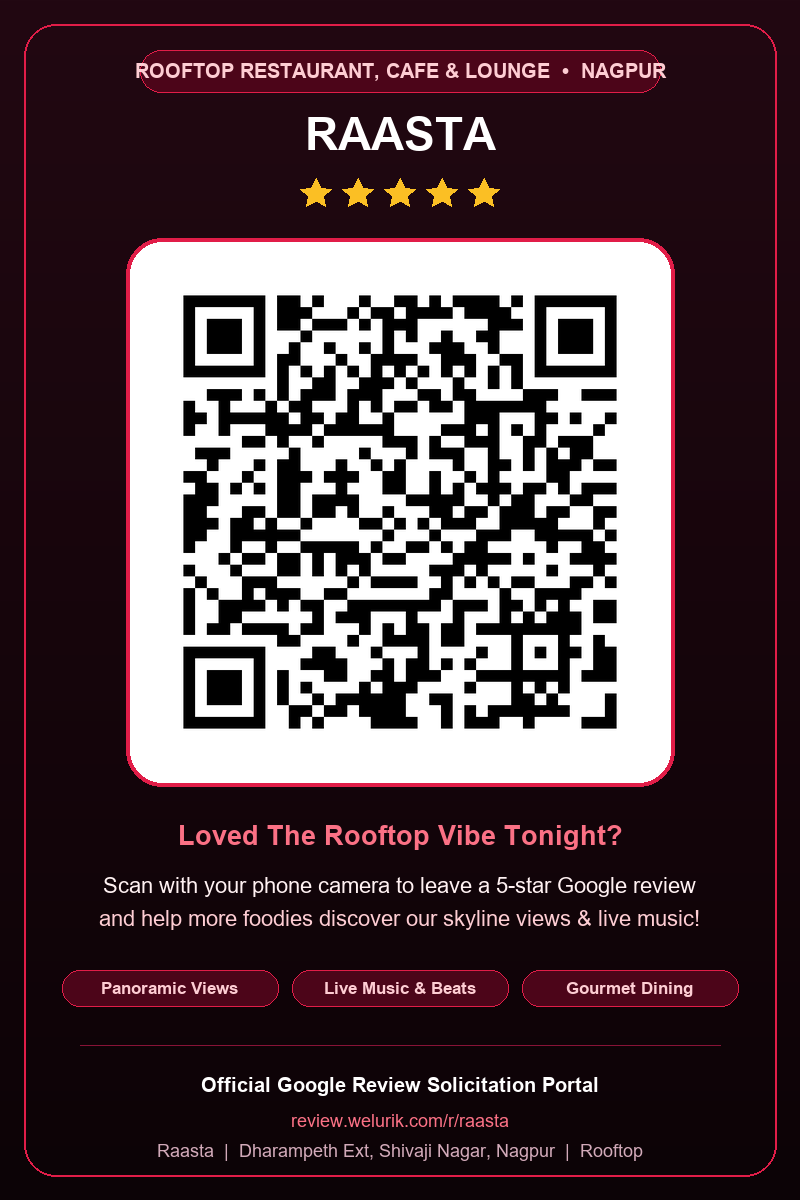
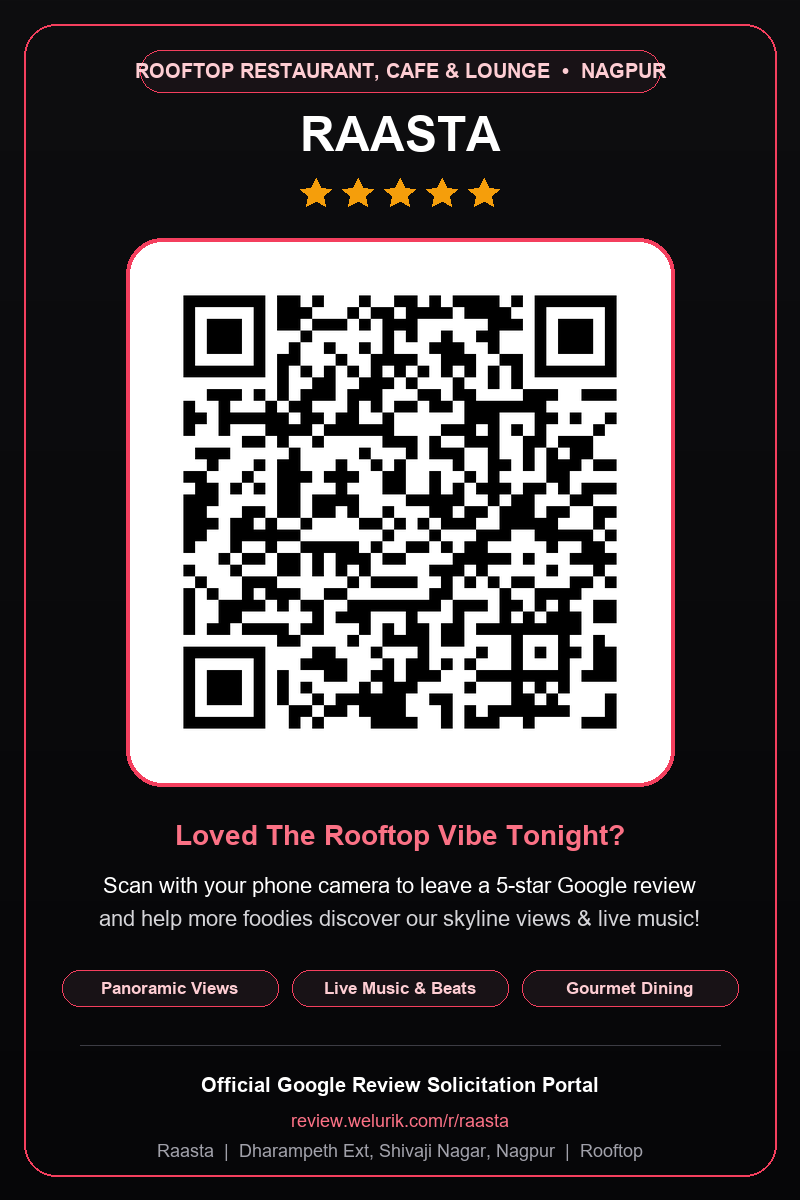
feat(standees): generate pure matte black acrylic standees for Tamtara and Raasta

diff --git a/scripts/create_black_standees.py b/scripts/create_black_standees.py
@@ -1,0 +1,164 @@
+import math
+import os
+from PIL import Image, ImageDraw, ImageFont
+
+artifact_dir = "C:/Users/Nitin Sharma/.gemini/antigravity/brain/53a06f14-de5f-4055-83e6-503359e97f82"
+public_dir = "e:/anti/google review app/public"
+
+width = 800
+height = 1200
+
+try:
+    font_eyebrow = ImageFont.truetype('arialbd.ttf', 20)
+    font_title = ImageFont.truetype('arialbd.ttf', 48)
+    font_sub = ImageFont.truetype('arialbd.ttf', 28)
+    font_desc = ImageFont.truetype('arial.ttf', 22)
+    font_pill = ImageFont.truetype('arialbd.ttf', 17)
+    font_footer = ImageFont.truetype('arialbd.ttf', 20)
+    font_footersub = ImageFont.truetype('arial.ttf', 18)
+except Exception:
+    font_eyebrow = font_title = font_sub = font_desc = font_pill = font_footer = font_footersub = ImageFont.load_default()
+
+def draw_stars(draw, cy=194):
+    star_spacing = 42
+    start_x = width // 2 - 2 * star_spacing
+    for i in range(5):
+        cx = start_x + i * star_spacing
+        coords = []
+        for s in range(10):
+            r = 16 if s % 2 == 0 else 7.5
+            angle = math.pi / 2 * 3 + s * (math.pi / 5)
+            coords.append((cx + math.cos(angle) * r, cy + math.sin(angle) * r))
+        draw.polygon(coords, fill=(245, 158, 11))
+
+# =============================================================
+# 1. TAMTARA - PURE MATTE BLACK LUXURY EDITION
+# =============================================================
+img_tamtara = Image.new('RGB', (width, height), color=(8, 8, 10))
+draw_t = ImageDraw.Draw(img_tamtara)
+
+# Ultra-subtle luxury dark obsidian gradient
+for y in range(height):
+    ratio = y / height
+    v = int(14 * (1 - ratio) + 6 * ratio)
+    draw_t.line([(0, y), (width, y)], fill=(v, v, v + 2))
+
+# Elegant gold/metallic outer border
+draw_t.rounded_rectangle([24, 24, width - 24, height - 24], radius=32, outline=(245, 158, 11, 140), width=2)
+
+# Top Eyebrow
+bw, bh = 490, 42
+bx, by = (width - bw) // 2, 50
+draw_t.rounded_rectangle([bx, by, bx + bw, by + bh], radius=21, fill=(22, 22, 26), outline=(245, 158, 11), width=1)
+draw_t.text((width // 2, by + bh // 2), "LUXURY FINE DINE & ARTISAN CAFE  •  NAGPUR", fill=(253, 230, 138), font=font_eyebrow, anchor="mm")
+
+# Business Title
+draw_t.text((width // 2, 134), "TAMTARA", fill=(255, 255, 255), font=font_title, anchor="mm")
+
+# 5 Gold Stars
+draw_stars(draw_t, 194)
+
+# High-contrast White QR Container
+cw, ch = 540, 540
+cx, cy = (width - cw) // 2, 242
+draw_t.rounded_rectangle([cx - 4, cy - 4, cx + cw + 4, cy + ch + 4], radius=36, fill=(245, 158, 11, 90))
+draw_t.rounded_rectangle([cx, cy, cx + cw, cy + ch], radius=32, fill=(255, 255, 255))
+
+qr_t = Image.open(os.path.join(public_dir, "tamtara-qr.png")).resize((480, 480), Image.Resampling.LANCZOS)
+img_tamtara.paste(qr_t, ((width - 480) // 2, cy + 30))
+
+# Headings & Instructions
+draw_t.text((width // 2, 835), "Loved Your Dining Experience?", fill=(245, 158, 11), font=font_sub, anchor="mm")
+draw_t.text((width // 2, 885), "Scan with your phone camera to leave a 5-star Google review", fill=(255, 255, 255), font=font_desc, anchor="mm")
+draw_t.text((width // 2, 918), "and share your experience with our flavors & aesthetic ambiance!", fill=(212, 212, 216), font=font_desc, anchor="mm")
+
+# Micro Trust Pillars
+pills_t = ["Gourmet Flavors", "Aesthetic Ambiance", "Exquisite Service"]
+pw, ph, sp = 216, 36, 14
+tot_w = len(pills_t) * pw + (len(pills_t) - 1) * sp
+start_px = (width - tot_w) // 2
+py = 970
+for i, p in enumerate(pills_t):
+    px = start_px + i * (pw + sp)
+    draw_t.rounded_rectangle([px, py, px + pw, py + ph], radius=18, fill=(20, 20, 24), outline=(245, 158, 11), width=1)
+    draw_t.text((px + pw // 2, py + ph // 2), p, fill=(253, 230, 138), font=font_pill, anchor="mm")
+
+# Divider line
+draw_t.line([(80, 1045), (width - 80, 1045)], fill=(60, 60, 68), width=1)
+
+# Footer
+draw_t.text((width // 2, 1085), "Official Google Review Solicitation Portal", fill=(255, 255, 255), font=font_footer, anchor="mm")
+draw_t.text((width // 2, 1120), "review.welurik.com/r/tamtara", fill=(245, 158, 11), font=font_footersub, anchor="mm")
+draw_t.text((width // 2, 1150), "Tamtara  |  Ring Road, Dabha, Nagpur  |  Fine Dine & Cafe", fill=(161, 161, 170), font=font_footersub, anchor="mm")
+
+# Save Tamtara Black Standee
+img_tamtara.save(os.path.join(artifact_dir, "tamtara-black-standee.png"), quality=95)
+img_tamtara.save(os.path.join(public_dir, "tamtara-black-standee.png"), quality=95)
+# Also update primary standee
+img_tamtara.save(os.path.join(artifact_dir, "tamtara-standee.png"), quality=95)
+img_tamtara.save(os.path.join(public_dir, "tamtara-standee.png"), quality=95)
+print("SUCCESS: Tamtara Black Standee created!")
+
+# =============================================================
+# 2. RAASTA - PURE MATTE BLACK ROOFTOP EDITION
+# =============================================================
+img_raasta = Image.new('RGB', (width, height), color=(8, 8, 10))
+draw_r = ImageDraw.Draw(img_raasta)
+
+# Ultra-subtle luxury dark obsidian gradient
+for y in range(height):
+    ratio = y / height
+    v = int(14 * (1 - ratio) + 6 * ratio)
+    draw_r.line([(0, y), (width, y)], fill=(v, v, v + 2))
+
+# Elegant outer border with gold/crimson metallic accent
+draw_r.rounded_rectangle([24, 24, width - 24, height - 24], radius=32, outline=(244, 63, 94, 140), width=2)
+
+# Top Eyebrow
+bw_r, bh_r = 520, 42
+bx_r, by_r = (width - bw_r) // 2, 50
+draw_r.rounded_rectangle([bx_r, by_r, bx_r + bw_r, by_r + bh_r], radius=21, fill=(24, 18, 22), outline=(244, 63, 94), width=1)
+draw_r.text((width // 2, by_r + bh_r // 2), "ROOFTOP RESTAURANT, CAFE & LOUNGE  •  NAGPUR", fill=(254, 205, 211), font=font_eyebrow, anchor="mm")
+
+# Business Title
+draw_r.text((width // 2, 134), "RAASTA", fill=(255, 255, 255), font=font_title, anchor="mm")
+
+# 5 Gold Stars
+draw_stars(draw_r, 194)
+
+# QR Container
+draw_r.rounded_rectangle([cx - 4, cy - 4, cx + cw + 4, cy + ch + 4], radius=36, fill=(244, 63, 94, 90))
+draw_r.rounded_rectangle([cx, cy, cx + cw, cy + ch], radius=32, fill=(255, 255, 255))
+
+qr_r = Image.open(os.path.join(public_dir, "raasta-qr.png")).resize((480, 480), Image.Resampling.LANCZOS)
+img_raasta.paste(qr_r, ((width - 480) // 2, cy + 30))
+
+# Headings & Instructions
+draw_r.text((width // 2, 835), "Loved The Rooftop Vibe Tonight?", fill=(251, 113, 133), font=font_sub, anchor="mm")
+draw_r.text((width // 2, 885), "Scan with your phone camera to leave a 5-star Google review", fill=(255, 255, 255), font=font_desc, anchor="mm")
+draw_r.text((width // 2, 918), "and help more foodies discover our skyline views & live music!", fill=(212, 212, 216), font=font_desc, anchor="mm")
+
+# Micro Trust Pillars
+pills_r = ["Panoramic Views", "Live Music & Beats", "Gourmet Dining"]
+tot_w_r = len(pills_r) * pw + (len(pills_r) - 1) * sp
+start_px_r = (width - tot_w_r) // 2
+for i, p in enumerate(pills_r):
+    px = start_px_r + i * (pw + sp)
+    draw_r.rounded_rectangle([px, py, px + pw, py + ph], radius=18, fill=(24, 18, 22), outline=(244, 63, 94), width=1)
+    draw_r.text((px + pw // 2, py + ph // 2), p, fill=(254, 205, 211), font=font_pill, anchor="mm")
+
+# Divider line
+draw_r.line([(80, 1045), (width - 80, 1045)], fill=(60, 60, 68), width=1)
+
+# Footer
+draw_r.text((width // 2, 1085), "Official Google Review Solicitation Portal", fill=(255, 255, 255), font=font_footer, anchor="mm")
+draw_r.text((width // 2, 1120), "review.welurik.com/r/raasta", fill=(251, 113, 133), font=font_footersub, anchor="mm")
+draw_r.text((width // 2, 1150), "Raasta  |  Dharampeth Ext, Shivaji Nagar, Nagpur  |  Rooftop", fill=(161, 161, 170), font=font_footersub, anchor="mm")
+
+# Save Raasta Black Standee
+img_raasta.save(os.path.join(artifact_dir, "raasta-black-standee.png"), quality=95)
+img_raasta.save(os.path.join(public_dir, "raasta-black-standee.png"), quality=95)
+# Also update primary standee
+img_raasta.save(os.path.join(artifact_dir, "raasta-standee.png"), quality=95)
+img_raasta.save(os.path.join(public_dir, "raasta-standee.png"), quality=95)
+print("SUCCESS: Raasta Black Standee created!")
